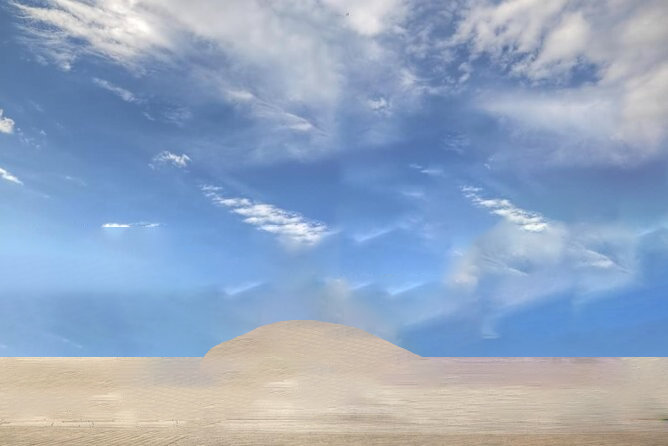
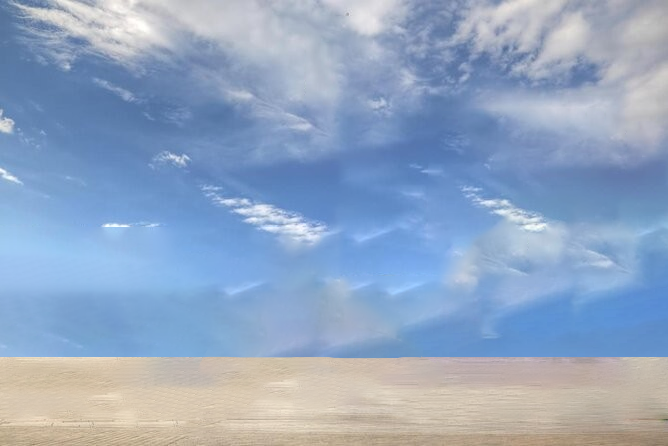
commented scrolling out

Changed region(s): [[0.2994, 0.6996, 0.6287, 0.8161]]

diff --git a/parralax.css b/parralax.css
@@ -29,10 +29,10 @@
 
   @keyframes animation_for_images {
     20% {
-      transform: rotateX(-2deg);
+      transform: rotateX(-8deg);
     }
     100% {
-      transform: rotateX(2deg);
+      transform: rotateX(4deg);
     }
   }   
 
@@ -98,7 +98,7 @@ body {
     overflow-y:auto;
     perspective:200px;
     scrollbar-width: none;
-    scroll-snap-type: y mandatory;
+    /* scroll-snap-type: y mandatory; */
     overflow-y: scroll;
 }
 
@@ -111,7 +111,7 @@ body {
     align-items:center;
     text-align: center;  
     font-size: 2em;
-    scroll-snap-align: start;
+    /* scroll-snap-align: start; */
 }
 
 .intro_screen {
@@ -148,6 +148,7 @@ body {
 .parralax_layer img {
     width:100%;
     object-fit: cover;
+    filter: drop-shadow(5px 5px 5px black);
 }
 
     .layer_6 {

diff --git a/Parralax.html b/Parralax.html
@@ -21,8 +21,8 @@
     <div class="parralax_group animation_for_images">
         <div class="parralax_layer layer_1"><img src="images/Img1_skies.png"></div>
         <div class="parralax_layer layer_3 "><img src="images/Img1_castle.png"></div>
-        <div class="parralax_layer layer_3"><img src="images/Img1_houses.png"></div> 
-        <div class="parralax_layer layer_4"><img src="images/Img1_statue.png"></div> 
+        <div class="parralax_layer layer_4"><img src="images/Img1_houses.png"></div> 
+        <div class="parralax_layer layer_5"><img src="images/Img1_statue.png"></div> 
     </div>
 
     <div class="image_title animation_appear">Image name #2</div>
